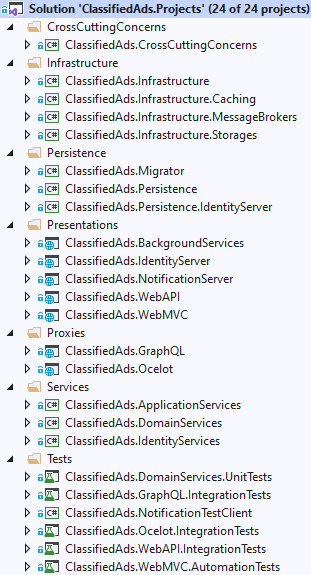
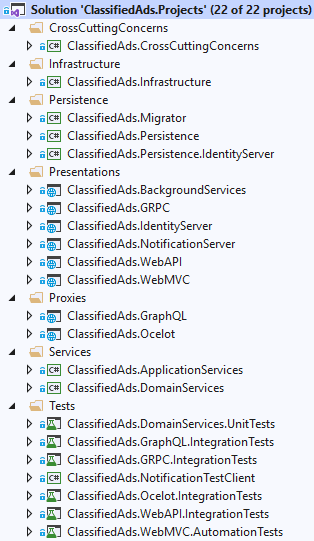
refactor folders & namespaces

diff --git a/src/ClassifiedAds.Projects/ClassifiedAds.Infrastructure/Networking/FileDownloader.cs b/src/ClassifiedAds.Projects/ClassifiedAds.Infrastructure/Networking/FileDownloader.cs
@@ -1,7 +1,7 @@
-using ClassifiedAds.DomainServices.Infrastructure;
+using ClassifiedAds.DomainServices.Infrastructure.Networking;
 using System.Net;
 
-namespace ClassifiedAds.Infrastructure
+namespace ClassifiedAds.Infrastructure.Networking
 {
     public class FileDownloader : IFileDownloader
     {

diff --git a/src/ClassifiedAds.Projects/ClassifiedAds.Infrastructure/OS/DateTimeProvider.cs b/src/ClassifiedAds.Projects/ClassifiedAds.Infrastructure/OS/DateTimeProvider.cs
@@ -1,7 +1,7 @@
-using ClassifiedAds.DomainServices.Infrastructure;
+using ClassifiedAds.DomainServices.Infrastructure.OS;
 using System;
 
-namespace ClassifiedAds.Infrastructure
+namespace ClassifiedAds.Infrastructure.OS
 {
     public class DateTimeProvider : IDateTimeProvider
     {

diff --git a/src/ClassifiedAds.Projects/ClassifiedAds.Infrastructure/MessageBrokers/AzureServiceBus/MessageQueueReceiver.cs b/src/ClassifiedAds.Projects/ClassifiedAds.Infrastructure/MessageBrokers/AzureServiceBus/MessageQueueReceiver.cs
@@ -1,4 +1,4 @@
-using ClassifiedAds.DomainServices.Infrastructure;
+using ClassifiedAds.DomainServices.Infrastructure.MessageBrokers;
 using System;
 
 namespace ClassifiedAds.Infrastructure.MessageBrokers.AzureServiceBus

diff --git a/src/ClassifiedAds.Projects/ClassifiedAds.Infrastructure/MessageBrokers/AzureQueue/MessageQueueReceiver.cs b/src/ClassifiedAds.Projects/ClassifiedAds.Infrastructure/MessageBrokers/AzureQueue/MessageQueueReceiver.cs
@@ -1,4 +1,4 @@
-using ClassifiedAds.DomainServices.Infrastructure;
+using ClassifiedAds.DomainServices.Infrastructure.MessageBrokers;
 using System;
 
 namespace ClassifiedAds.Infrastructure.MessageBrokers.AzureQueue

diff --git a/src/ClassifiedAds.Projects/ClassifiedAds.Infrastructure/MessageBrokers/RabbitMQ/MessageQueueReceiver.cs b/src/ClassifiedAds.Projects/ClassifiedAds.Infrastructure/MessageBrokers/RabbitMQ/MessageQueueReceiver.cs
@@ -1,4 +1,4 @@
-using ClassifiedAds.DomainServices.Infrastructure;
+using ClassifiedAds.DomainServices.Infrastructure.MessageBrokers;
 using Newtonsoft.Json;
 using RabbitMQ.Client;
 using RabbitMQ.Client.Events;

diff --git a/src/ClassifiedAds.Projects/ClassifiedAds.Infrastructure/MessageBrokers/Kafka/MessageQueueReceiver.cs b/src/ClassifiedAds.Projects/ClassifiedAds.Infrastructure/MessageBrokers/Kafka/MessageQueueReceiver.cs
@@ -1,4 +1,4 @@
-using ClassifiedAds.DomainServices.Infrastructure;
+using ClassifiedAds.DomainServices.Infrastructure.MessageBrokers;
 using System;
 
 namespace ClassifiedAds.Infrastructure.MessageBrokers.Kafka

diff --git a/src/ClassifiedAds.Projects/ClassifiedAds.DomainServices/Infrastructure/MessageBrokers/IMessageQueueReceiver.cs b/src/ClassifiedAds.Projects/ClassifiedAds.DomainServices/Infrastructure/MessageBrokers/IMessageQueueReceiver.cs
@@ -1,6 +1,6 @@
 using System;
 
-namespace ClassifiedAds.DomainServices.Infrastructure
+namespace ClassifiedAds.DomainServices.Infrastructure.MessageBrokers
 {
     public interface IMessageQueueReceiver<T>
     {

diff --git a/src/ClassifiedAds.Projects/ClassifiedAds.Infrastructure/MessageBrokers/AzureServiceBus/MessageQueueSender.cs b/src/ClassifiedAds.Projects/ClassifiedAds.Infrastructure/MessageBrokers/AzureServiceBus/MessageQueueSender.cs
@@ -1,4 +1,4 @@
-using ClassifiedAds.DomainServices.Infrastructure;
+using ClassifiedAds.DomainServices.Infrastructure.MessageBrokers;
 
 namespace ClassifiedAds.Infrastructure.MessageBrokers.AzureServiceBus
 {

diff --git a/src/ClassifiedAds.Projects/ClassifiedAds.Infrastructure/MessageBrokers/AzureQueue/MessageQueueSender.cs b/src/ClassifiedAds.Projects/ClassifiedAds.Infrastructure/MessageBrokers/AzureQueue/MessageQueueSender.cs
@@ -1,4 +1,4 @@
-using ClassifiedAds.DomainServices.Infrastructure;
+using ClassifiedAds.DomainServices.Infrastructure.MessageBrokers;
 
 namespace ClassifiedAds.Infrastructure.MessageBrokers.AzureQueue
 {

diff --git a/src/ClassifiedAds.Projects/ClassifiedAds.Infrastructure/Storages/Local/FileReader.cs b/src/ClassifiedAds.Projects/ClassifiedAds.Infrastructure/Storages/Local/FileReader.cs
@@ -1,4 +1,4 @@
-using ClassifiedAds.DomainServices.Infrastructure;
+using ClassifiedAds.DomainServices.Infrastructure.Storages;
 using System.IO;
 
 namespace ClassifiedAds.Infrastructure.Storages.Local

diff --git a/src/ClassifiedAds.Projects/ClassifiedAds.Infrastructure/MessageBrokers/RabbitMQ/MessageQueueSender.cs b/src/ClassifiedAds.Projects/ClassifiedAds.Infrastructure/MessageBrokers/RabbitMQ/MessageQueueSender.cs
@@ -1,4 +1,4 @@
-using ClassifiedAds.DomainServices.Infrastructure;
+using ClassifiedAds.DomainServices.Infrastructure.MessageBrokers;
 using Newtonsoft.Json;
 using RabbitMQ.Client;
 using System.Text;

diff --git a/src/ClassifiedAds.Projects/ClassifiedAds.Infrastructure/MessageBrokers/Kafka/MessageQueueSender.cs b/src/ClassifiedAds.Projects/ClassifiedAds.Infrastructure/MessageBrokers/Kafka/MessageQueueSender.cs
@@ -1,4 +1,4 @@
-using ClassifiedAds.DomainServices.Infrastructure;
+using ClassifiedAds.DomainServices.Infrastructure.MessageBrokers;
 
 namespace ClassifiedAds.Infrastructure.MessageBrokers.Kafka
 {
